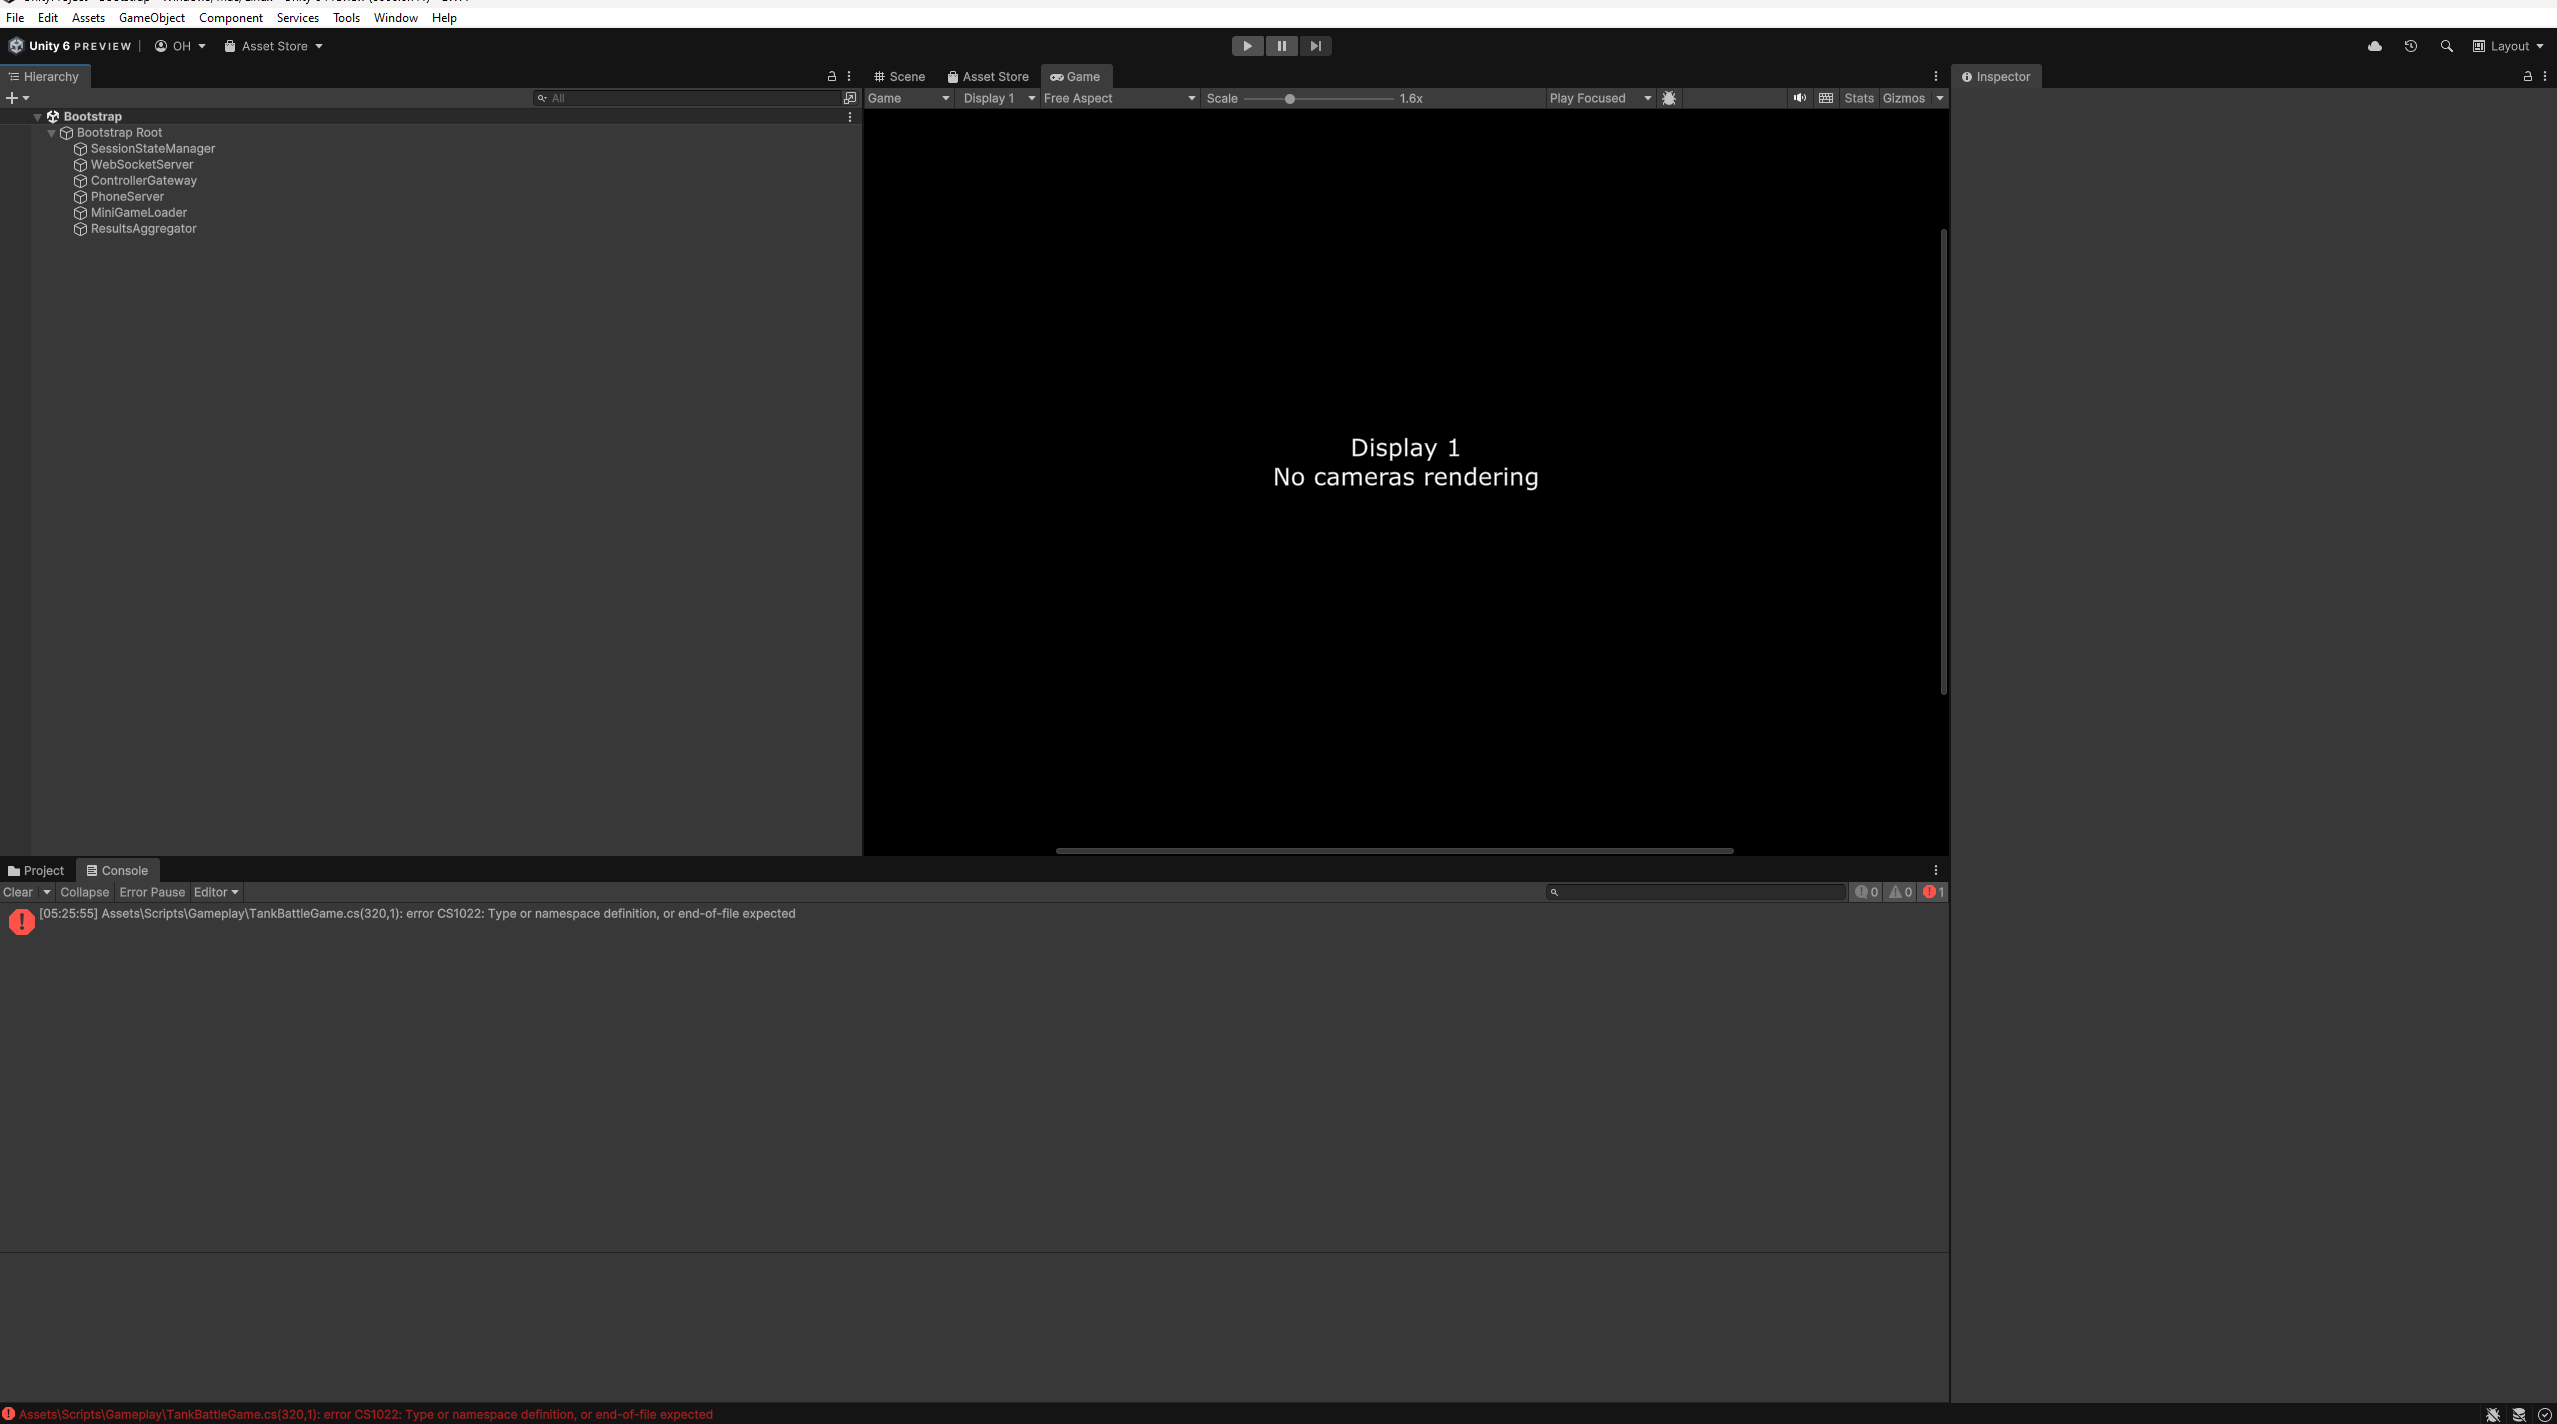
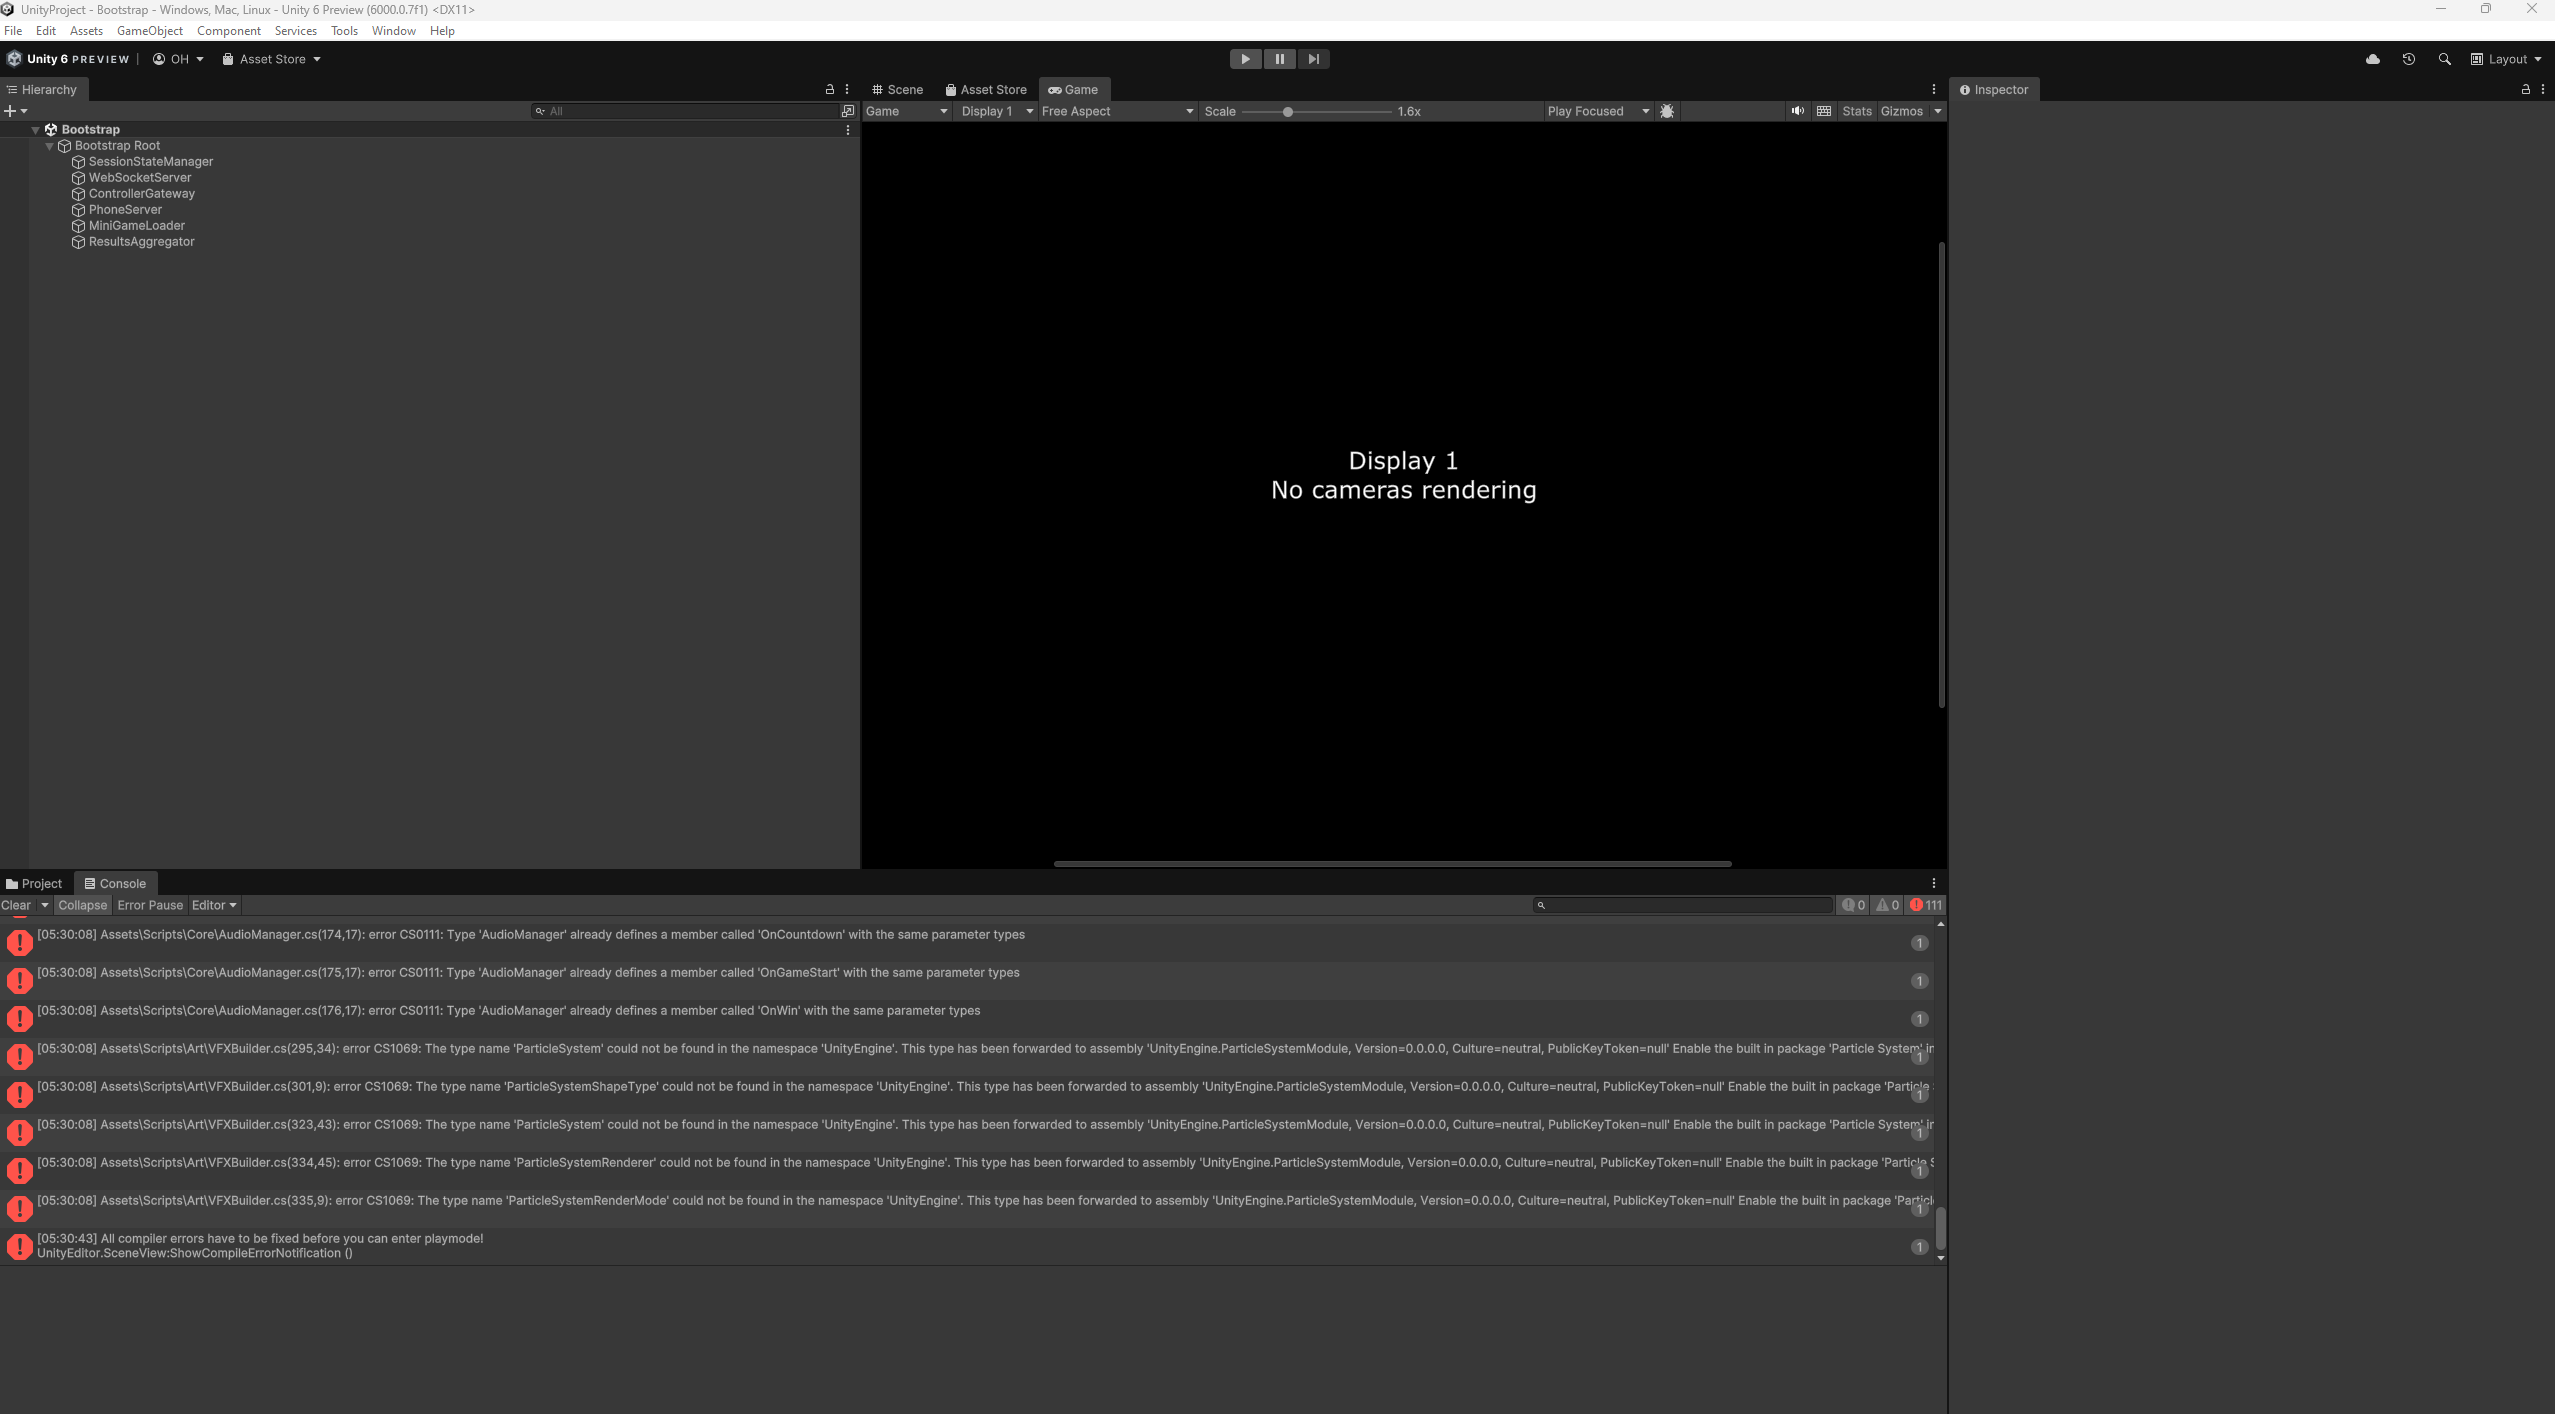
fix: duplicate AudioManager methods + particle module + art asmdef
- AudioManager.cs: removed 3 duplicate method definitions (OnCountdown,
  OnGameStart, OnWin) that caused CS0111 errors
- Packages/manifest.json: added com.unity.modules.particlesystem explicitly
- Added Moments.Art.asmdef for Art scripts subfolder isolation

diff --git a/moments-game/UnityProject/Assets/Scripts/Core/AudioManager.cs b/moments-game/UnityProject/Assets/Scripts/Core/AudioManager.cs
@@ -171,12 +171,9 @@ public class AudioManager : MonoBehaviour
     public void OnWin()                  => PlaySFX("win");
     public void OnPickup()               => PlaySFX("pickup");
     public void OnTileShatter(Vector3 pos) => PlaySFX("ice_shatter", pos, 1.2f);
-    public void OnCountdown()      => PlaySFX("countdown");
-    public void OnGameStart()      => PlaySFX("game_start");
-    public void OnWin()            => PlaySFX("win");
-    public void OnPlayerJoin()     => PlaySFX("player_join");
-    public void OnPaint(Vector3 pos) => PlaySFX("paint_splat", pos);
-    public void OnScoreIncrease()  => PlaySFX("score_tick");
+    public void OnPlayerJoin()           => PlaySFX("player_join");
+    public void OnPaint(Vector3 pos)     => PlaySFX("paint_splat", pos);
+    public void OnScoreIncrease()        => PlaySFX("score_tick");
 
     // ── Volume Control ─────────────────────────────────────────────────────
 
